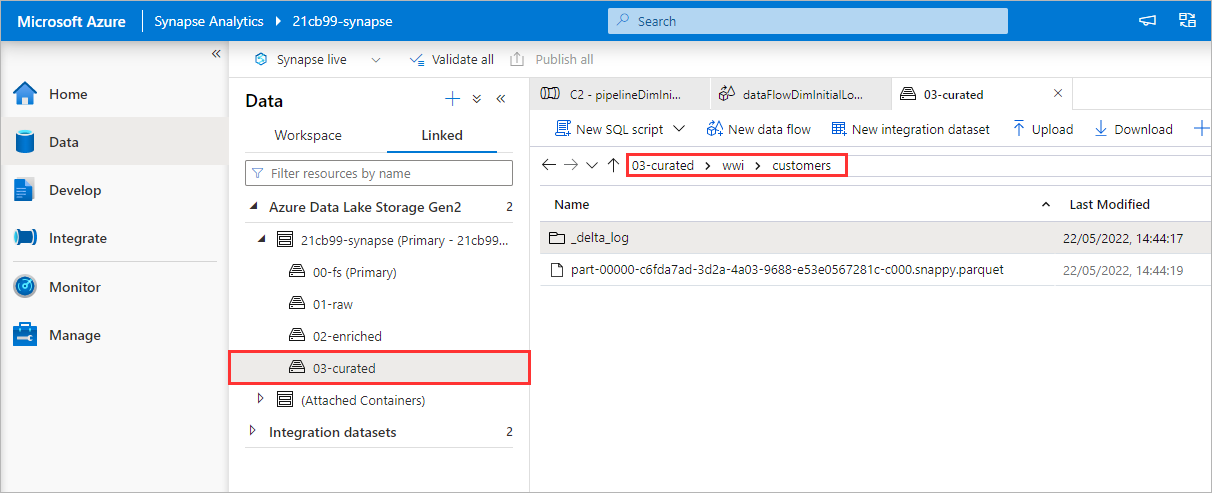
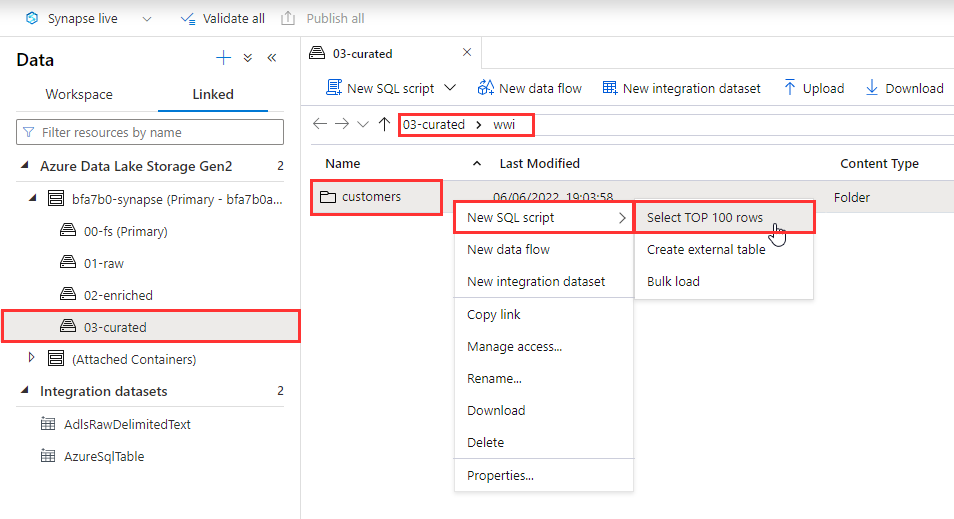
module01b

diff --git a/modules/module01b.md b/modules/module01b.md
@@ -60,7 +60,7 @@ flowchart LR
 
 ## 1. Pipeline (initialLoad)
 
-In this example, we will be creating a pipeline that will reference one of the data files in the raw layer to initialize the dimension table. This process will involve populating the dimension table with some data as well as the creation of additional columns needed to facilitate future incremental loads. The pipeline will leverage the Get Metadata activity which can be used to retrieve metadata, in this case, file names within a folder path. This metadata will be used to pass a file name to the subsequent Data flow step where our transformation will occur.
+In this example, we will be creating a pipeline that will reference one of the data files in the raw layer to initialize the dimension table. This process will involve populating the dimension table with some data as well as the creation of additional columns needed to facilitate future incremental loads. The pipeline will leverage the **Get Metadata** activity which can be used to retrieve metadata, in this case, file names within a folder path. This metadata will be used to pass a file name to the subsequent **Data flow** step where our transformation will occur.
 
 1. Navigate to the **Integrate** hub
 
@@ -130,9 +130,9 @@ In this example, we will be creating a pipeline that will reference one of the d
 
 ## 2. Data flow (Source - rawCustomer)
 
-Data flows provide a way to transform data at scale without any coding required. You can design a data transformation job in the data flow designer by constructing a series of transformations. In this step, we are going to start with a source that will reference a delimited text file (CSV) in the raw layer of our data lake.
+[Data flows](https://docs.microsoft.com/azure/synapse-analytics/concepts-data-flow-overview) provide a way to transform data at scale without any coding required. You can design a data transformation job in the data flow designer by constructing a series of transformations. In this step, we are going to start with a **source** that will reference a delimited text file (CSV) in the raw layer of our data lake.
 
-1. Enable **Data flow debug**
+1. Enable **Data flow debug** and set the **Debug time to live** to **4 hours**
 
     ![ALT](../images/module01b/017.png)
 
@@ -218,7 +218,7 @@ Data flows provide a way to transform data at scale without any coding required.
 
 ## 3. Data flow (Surrogate Key)
 
-The Surrogate Key transformation is used to add an incrementing key value to each row of data. This is useful when designing dimension tables in a star schema analytical data model. In a star schema, each member in your dimension tables requires a unique key (e.g. CustomerSurrogateKey) that is a non-business key (e.g. CustomerID). In this example, the business key (CustomerID) may repeat in our dimension table due to updates being made to a customer over time. The surrogate key enables us to uniquely identify records within our dimension table while persisting changes.
+The [Surrogate Key](https://docs.microsoft.com/azure/data-factory/data-flow-surrogate-key) transformation is used to add an incrementing key value to each row of data. This is useful when designing dimension tables in a star schema analytical data model. In a star schema, each member in your dimension tables requires a unique key (e.g. CustomerSurrogateKey) that is a non-business key (e.g. CustomerID). In this example, the business key (CustomerID) may repeat in our dimension table due to updates being made to a customer over time. The surrogate key enables us to uniquely identify records within our dimension table while persisting changes.
 
 1. Click the **[+]** icon to add a new step, under **Schema modifier** select **Surrogate Key**
 
@@ -240,7 +240,7 @@ The Surrogate Key transformation is used to add an incrementing key value to eac
 
 ## 4. Data flow (Derived Column)
 
-The Derived Column transformation allows us to generate new columns and/or modify existing columns. In this example, we are going to add three new columns (`IsActive`, `ValidFrom`, and `ValidTo`) in addition to the columns that are arriving from the previous transformation (`CustomerSK`, `CustomerID`, and `CustomerAddress`). This additional columns will be used in future incremental loads that will adhere to the slowly changing dimension type 2 pattern where we are able to persist historical changes and quickly isolate the subset of rows which represent the currently active (i.e. IsActive == 1).
+The [Derived Column](https://docs.microsoft.com/azure/data-factory/data-flow-derived-column) transformation allows us to generate new columns and/or modify existing columns. In this example, we are going to add three new columns (`IsActive`, `ValidFrom`, and `ValidTo`) in addition to the columns that are arriving from the previous transformation (`CustomerSK`, `CustomerID`, and `CustomerAddress`). These additional columns will be used in future incremental loads that will adhere to the slowly changing dimension type 2 pattern where we are able to persist historical changes and quickly isolate the subset of rows which represent the currently active (i.e. IsActive == 1).
 
 1. Click the **[+]** icon to add a new step, under **Schema modifier** select **Derived Column**
 
@@ -290,7 +290,7 @@ The Derived Column transformation allows us to generate new columns and/or modif
 
 ## 5. Data flow (Select)
 
-The Select transformation can be used to rename, drop, or reorder columns. In this example, we are going to reorder our columns so that the newly introduced `CustomerSK` is in the first position.
+The [Select](https://docs.microsoft.com/azure/data-factory/data-flow-select) transformation can be used to rename, drop, or reorder columns. In this example, we are going to reorder our columns so that the newly introduced `CustomerSK` is in the first position.
 
 1. Click the **[+]** icon to add a new step, under **Schema modifier** select **Select**
 
@@ -312,7 +312,7 @@ The Select transformation can be used to rename, drop, or reorder columns. In th
 
 ## 6. Data flow (Sink)
 
-The final step in a data flow is to write the net effect of the transformations into a destination store by using the Sink transformation. In this example, we are going to write the net result of our data transformations to the curated layer within the data lake using the Delta Lake file format. Delta Lake is an open-source file format that enables building a lakehouse architecture by bringing features such as ACID (atomicity, consistency, isolation, and durability) compliant transactions.
+The final step in a data flow is to write the net effect of the transformations into a destination store by using the [Sink](https://docs.microsoft.com/azure/data-factory/data-flow-sink) transformation. In this example, we are going to write the net result of our data transformations to the curated layer within the data lake using the Delta Lake file format. Delta Lake is an open-source file format that enables building a lakehouse architecture by bringing features such as ACID (atomicity, consistency, isolation, and durability) compliant transactions.
 
 1. Click the **[+]** icon to add a new step, under **Destination** select **Sink**
 
@@ -362,7 +362,7 @@ The final step in a data flow is to write the net effect of the transformations 
 
 ## 7. Pipeline (initialLoad)
 
-To finalize our pipeline, we must update the parameters of the data flow activity so that is is able to retrieve a file name from the previous step in the pipeline.
+To finalize our pipeline, we must update the parameters of the data flow activity so that it is able to retrieve a file name from the previous step in the pipeline.
 
 1. Navigate back to the **pipeline**, click to focus on the **Data flow** step
 
@@ -404,21 +404,21 @@ To finalize our pipeline, we must update the parameters of the data flow activit
 
 ## 8. Query Delta Lake
 
-The serverless SQL pool in Azure Synapse Analytics is an example compute engine that has the ability to read data stored in the Delta Lake format. Further into the workshop, we will leverage this capability to serve curated data to reporting tools such as Power BI.
+The serverless SQL pool in Azure Synapse Analytics is an example compute engine that has the ability to [read data](https://docs.microsoft.com/azure/synapse-analytics/sql/query-delta-lake-format) stored in the **Delta Lake** format. Further into the workshop, we will leverage this capability to serve curated data to reporting tools such as Power BI.
 
 1. Navigate to the **Data** hub
 
     ![ALT](../images/module01b/072.png)
 
-2. Browse the data lake folder structure to `03-curated > wwi > customers`
+2. Browse the data lake folder structure to `03-curated > wwi`, right-click the folder `customers `, and select **New SQL Script > Select TOP 100 rows**
 
     ![ALT](../images/module01b/073.png)
 
-3. Right-click one of the **parquet** files, select **New SQL Script > Select TOP 100 rows**
+3. Set the **File type** to **Delta format** and click **Apply**
 
     ![ALT](../images/module01b/074.png)
 
-4. Modify the **OPENROWSET** function to remove the file name from the **BULK** path, change the **FORMAT** to **DELTA**, and click **Run**
+4. Click **Run**
 
     ![ALT](../images/module01b/075.png)
 
